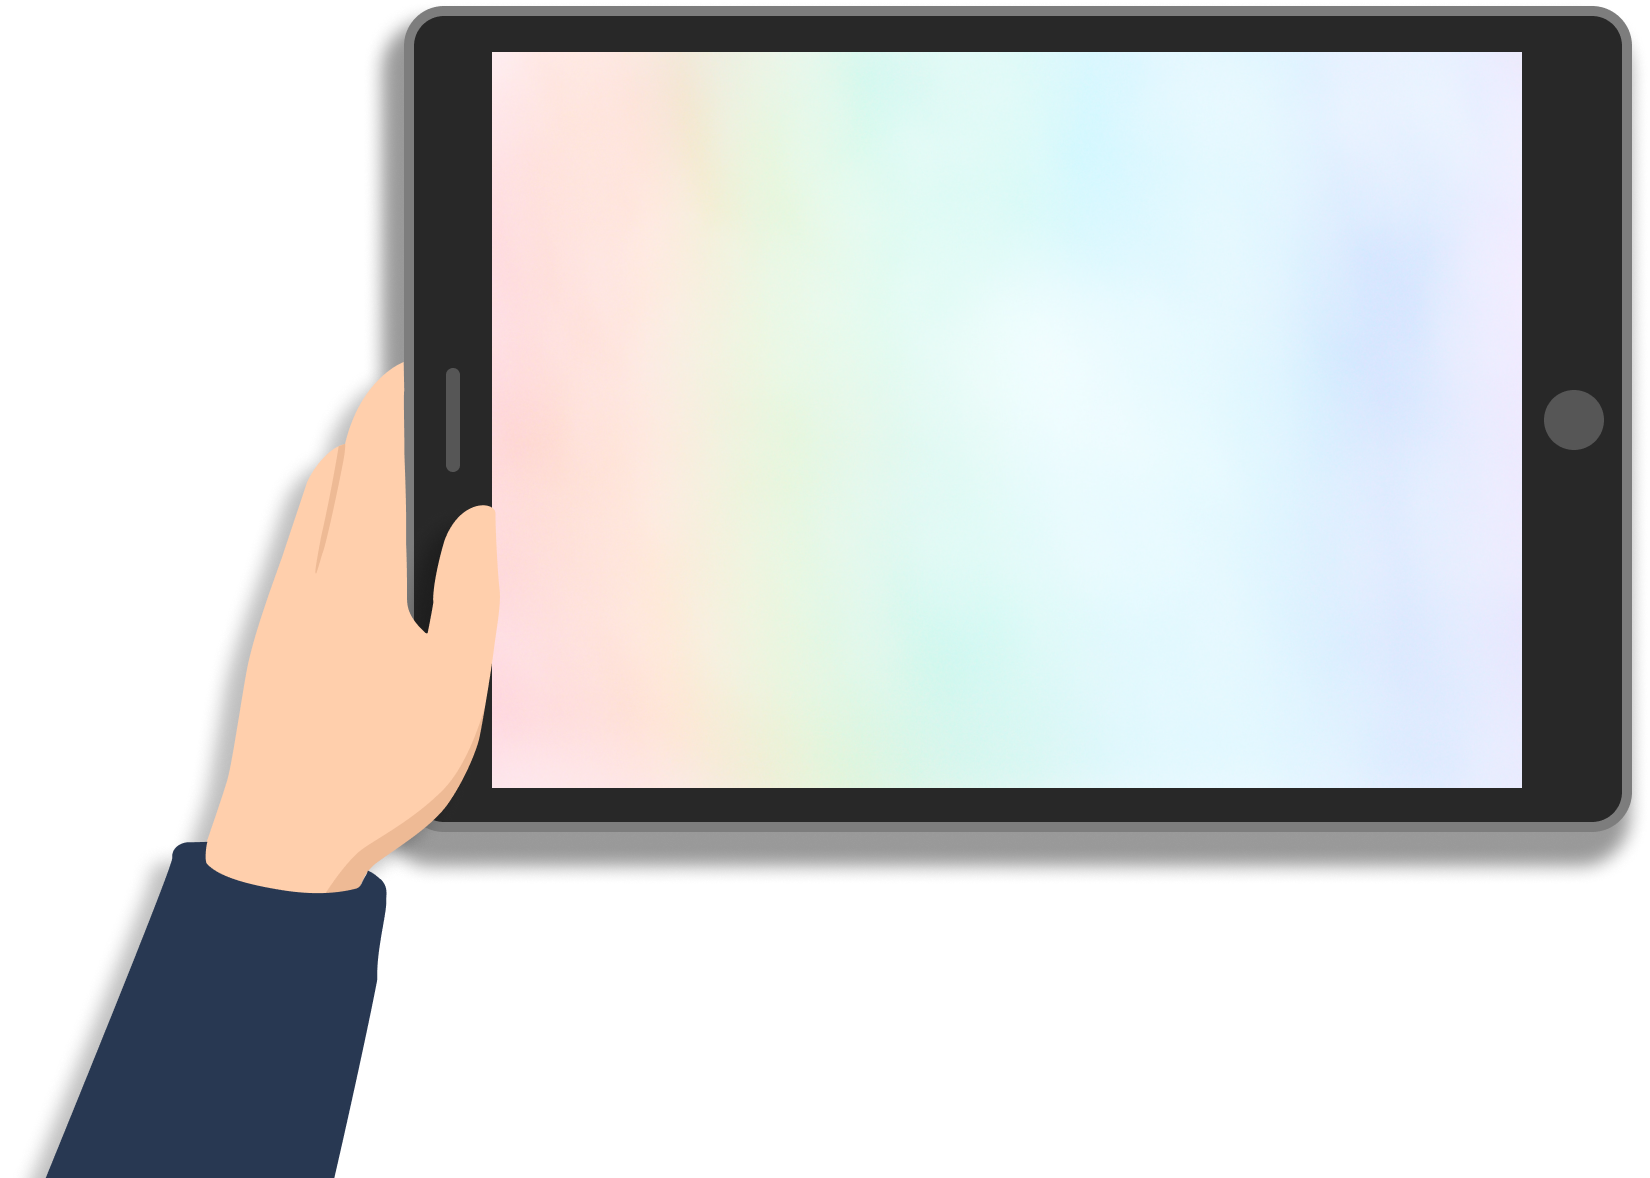
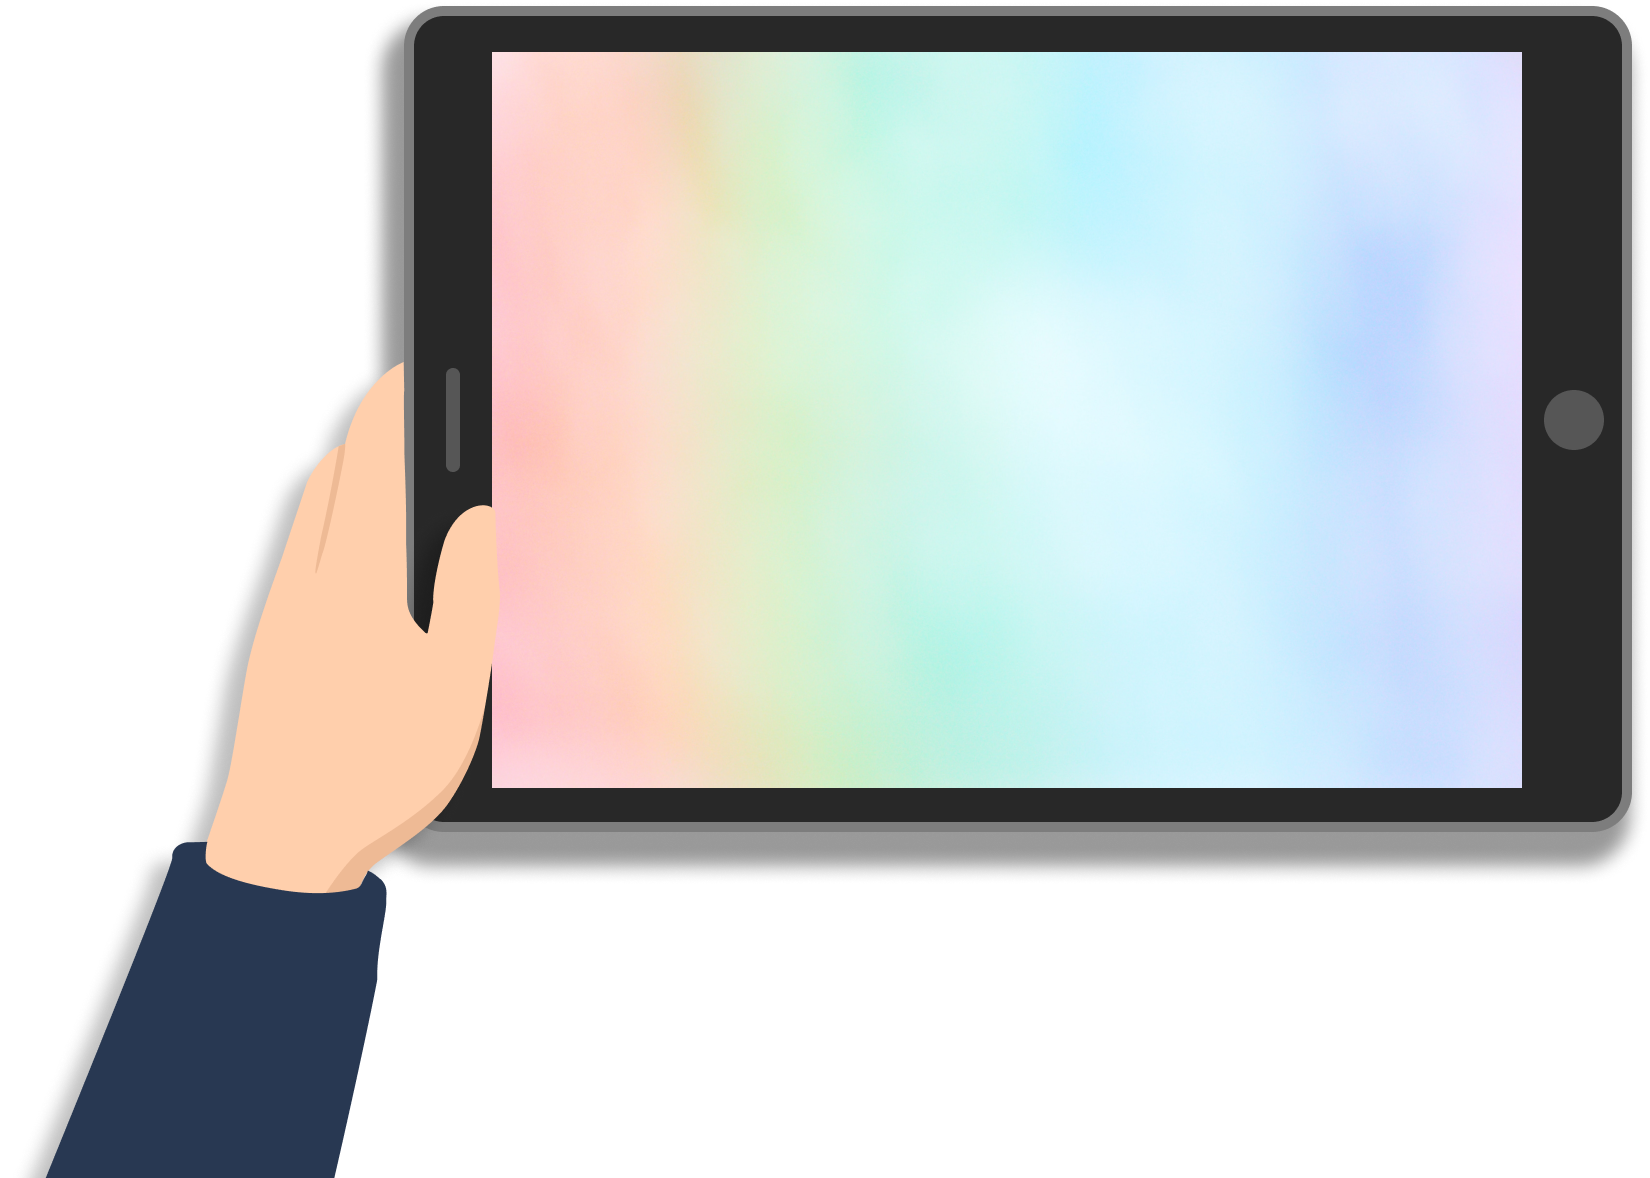
:art: [change] 태블릿 배경화면 수정, 로고 추가

diff --git a/assets/style/style.css b/assets/style/style.css
@@ -35,10 +35,10 @@ body::-webkit-scrollbar {
 }
 
 .cont-tablet .tit-womd {
-  width: 256px;
+  width: 170px;
   position: absolute;
-  top: 200px;
-  left: 350px;
+  top: 170px;
+  left: 390px;
 }
 
 .cont-tablet .tit-womd img {
